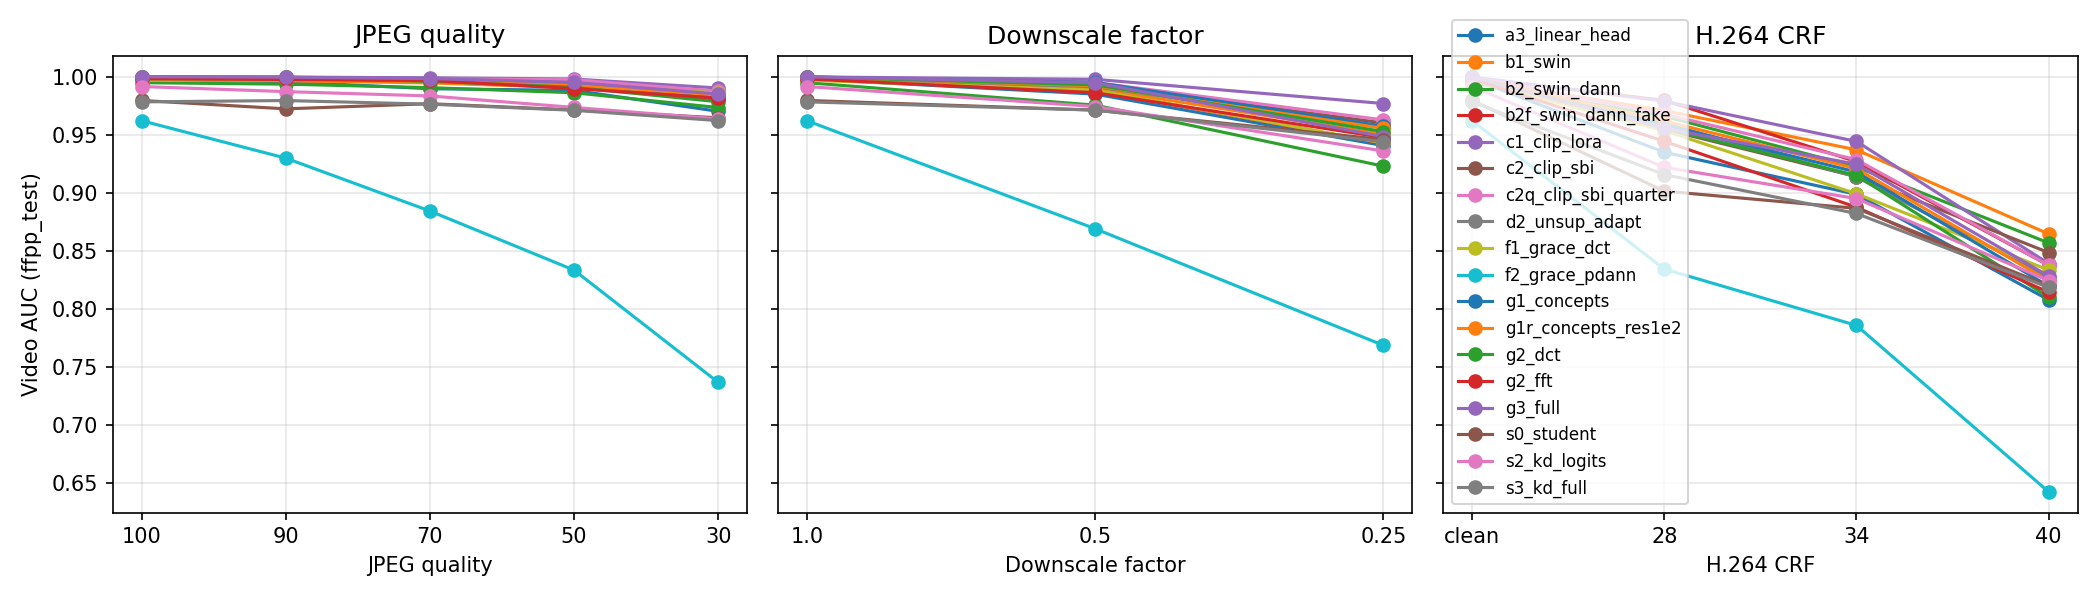
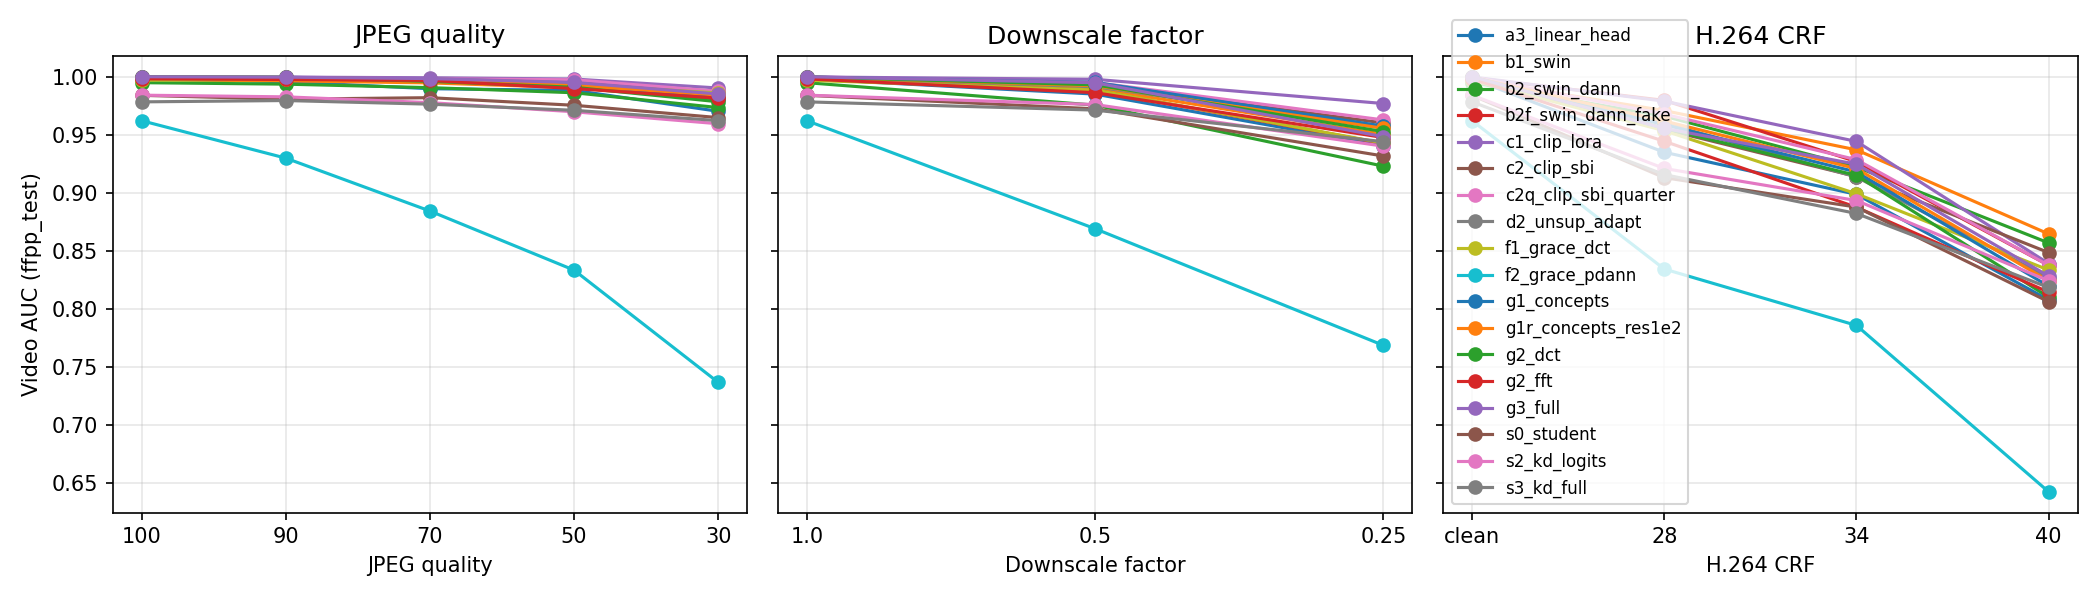
Final eval v3 (810 rows), tables/summary v3 with seed means; summary seed note; STATUS

diff --git a/scripts/make_summary.py b/scripts/make_summary.py
@@ -44,7 +44,7 @@ def main() -> None:
              "- Metric: video AUC (mean fake probability over a video's crops); thresholds from FF++ validation only.",
              "- Models: Swin-B baseline (B1, B2 + DANN), CLIP ViT-L/14 + LoRA (C1), + self-blended images (C2), + concept bottleneck (G1), "
              "+ frequency branch with gated fusion (G2 DCT / G2-fft), + DANN (G3); final teacher chosen on FF++ val between F1 (G2-DCT + residual 1e-2 + harder val selection) and F2 (F1 + DANN on patch features); EfficientNet-B0 students S0/S2/S3 distilled from the final teacher.",
-             "- Hardware: one RTX 4500 Ada (24 GB); one seed per model except the final teacher and S3 (seeds 42 and 1, seed 2 where time allowed).", "",
+             "- Hardware: one RTX 4500 Ada (24 GB); seeds 42, 1 and 2 for the final teacher (F1), B1 and all three students (S0, S2, S3); X1 and D2 two seeds; other models one seed (42). Numbers are seed means where more than one seed exists.", "",
              "## Findings", ""]
     for a, b, what in [("b1_swin", "c1_clip_lora", "Replacing Swin-B with CLIP + LoRA"),
                        ("c1_clip_lora", "c2_clip_sbi", "Adding self-blended images"),

diff --git a/results/tables.md b/results/tables.md
@@ -18,11 +18,11 @@ Generated by `scripts/make_tables.py` from the run folders and `results/*.csv`. 
 | A3 G3 w/o concepts | 0.998 | 0.962 | 0.893 | 0.928 |
 | F1 G2-DCT + residual 1e-2 + hard-val selection | 0.997 ± 0.003 | 0.951 ± 0.003 | 0.901 ± 0.014 | 0.926 ± 0.008 |
 | F2 F1 + DANN/MMD on patch features | 0.962 | 0.813 | 0.715 | 0.764 |
-| S0 student, no teacher | 0.979 | 0.836 | 0.778 | 0.807 |
-| S2 student, logit KD | 0.991 | 0.869 | 0.810 | 0.839 |
+| S0 student, no teacher | 0.984 ± 0.004 | 0.867 ± 0.022 | 0.817 ± 0.028 | 0.842 ± 0.025 |
+| S2 student, logit KD | 0.984 ± 0.006 | 0.859 ± 0.008 | 0.803 ± 0.005 | 0.831 ± 0.006 |
 | S3 student, full KD | 0.978 ± 0.005 | 0.844 ± 0.011 | 0.808 ± 0.021 | 0.826 ± 0.010 |
 | D2 G3 + unsupervised adaptation to Celeb-DF | 0.999 | 0.949 | 0.874 | 0.911 |
-| X1 G3 trained on FF++ + DFD (DFD not a test set) | 0.997 | – | 0.950 | – |
+| X1 G3 trained on FF++ + DFD (DFD not a test set) | 0.998 ± 0.001 | – | 0.959 ± 0.009 | – |
 
 ### Frame AUC
 
@@ -40,11 +40,11 @@ Generated by `scripts/make_tables.py` from the run folders and `results/*.csv`. 
 | A3 G3 w/o concepts | 0.979 | 0.888 | 0.764 | 0.826 |
 | F1 G2-DCT + residual 1e-2 + hard-val selection | 0.982 ± 0.001 | 0.895 ± 0.004 | 0.802 ± 0.013 | 0.848 ± 0.008 |
 | F2 F1 + DANN/MMD on patch features | 0.930 | 0.743 | 0.628 | 0.686 |
-| S0 student, no teacher | 0.961 | 0.802 | 0.719 | 0.760 |
-| S2 student, logit KD | 0.964 | 0.825 | 0.738 | 0.782 |
+| S0 student, no teacher | 0.963 ± 0.002 | 0.821 ± 0.014 | 0.748 ± 0.021 | 0.785 ± 0.017 |
+| S2 student, logit KD | 0.963 ± 0.001 | 0.826 ± 0.005 | 0.738 ± 0.000 | 0.782 ± 0.002 |
 | S3 student, full KD | 0.960 ± 0.006 | 0.820 ± 0.007 | 0.748 ± 0.016 | 0.784 ± 0.006 |
 | D2 G3 + unsupervised adaptation to Celeb-DF | 0.985 | 0.895 | 0.786 | 0.840 |
-| X1 G3 trained on FF++ + DFD (DFD not a test set) | 0.985 | – | 0.868 | – |
+| X1 G3 trained on FF++ + DFD (DFD not a test set) | 0.988 ± 0.003 | – | 0.883 ± 0.015 | – |
 
 ## 2. Ablation (each row changes one thing from the row above)
 
@@ -70,8 +70,8 @@ G2-fft is compared with G1; A3 is compared with G3; F1 with G2-DCT; F2 with F1. 
 | C1 CLIP + LoRA | 0.939 | 0.820 | 0.861 | 0.609 |
 | G3 full teacher (+ DANN) | 0.935 | 0.927 | 0.912 | 0.639 |
 | F1 G2-DCT + residual 1e-2 + hard-val selection | 0.926 ± 0.008 | 0.923 ± 0.006 | 0.897 ± 0.007 | 0.643 ± 0.015 |
-| S0 student, no teacher | 0.807 | 0.808 | 0.816 | 0.598 |
-| S2 student, logit KD | 0.839 | 0.845 | 0.843 | 0.622 |
+| S0 student, no teacher | 0.842 ± 0.025 | 0.827 ± 0.013 | 0.811 ± 0.011 | 0.599 ± 0.010 |
+| S2 student, logit KD | 0.831 ± 0.006 | 0.839 ± 0.005 | 0.836 ± 0.005 | 0.614 ± 0.006 |
 | S3 student, full KD | 0.826 ± 0.010 | 0.833 ± 0.010 | 0.828 ± 0.007 | 0.621 ± 0.011 |
 
 Full grid: `results/robustness.csv`; curves: `results/fig_robustness_<split>.png`.
@@ -82,8 +82,8 @@ Full grid: `results/robustness.csv`; curves: `results/fig_robustness_<split>.png
 | --- | --- | --- | --- | --- | --- | --- | --- | --- |
 | B1 Swin-B | 86.75 | 15.43 | 640.3 | nan | 0.901 ± 0.003 | 0.862 ± 0.021 | – | – |
 | F1 G2-DCT + residual 1e-2 + hard-val selection | 306.94 | 81.46 | 286.2 | nan | 0.926 ± 0.008 | 0.949 ± 0.008 | – | – |
-| S0 student, no teacher | 4.71 | 0.39 | 3834.6 | nan | 0.807 | 0.822 | 0.683 ± 0.038 | 0.149 ± 0.008 |
-| S2 student, logit KD | – | – | – | – | 0.839 | 0.855 | – | – |
+| S0 student, no teacher | 4.71 | 0.39 | 3834.6 | nan | 0.842 ± 0.025 | 0.839 ± 0.012 | 0.683 ± 0.038 | 0.149 ± 0.008 |
+| S2 student, logit KD | – | – | – | – | 0.831 ± 0.006 | 0.845 ± 0.008 | – | – |
 | S3 student, full KD | 4.71 | 0.39 | 3939.3 | 4.2 | 0.826 ± 0.010 | 0.843 ± 0.008 | 0.767 ± 0.022 | 0.121 ± 0.007 |
 
 ## 5. Explanations

diff --git a/results/summary.md b/results/summary.md
@@ -6,7 +6,7 @@
 - Unseen tests: DeepFakeDetection (DFD) and Celeb-DF v2; FF++ test for in-domain. Celeb-DF test mode: interim.
 - Metric: video AUC (mean fake probability over a video's crops); thresholds from FF++ validation only.
 - Models: Swin-B baseline (B1, B2 + DANN), CLIP ViT-L/14 + LoRA (C1), + self-blended images (C2), + concept bottleneck (G1), + frequency branch with gated fusion (G2 DCT / G2-fft), + DANN (G3); final teacher chosen on FF++ val between F1 (G2-DCT + residual 1e-2 + harder val selection) and F2 (F1 + DANN on patch features); EfficientNet-B0 students S0/S2/S3 distilled from the final teacher.
-- Hardware: one RTX 4500 Ada (24 GB); one seed per model except the final teacher and S3 (seeds 42 and 1, seed 2 where time allowed).
+- Hardware: one RTX 4500 Ada (24 GB); seeds 42, 1 and 2 for the final teacher (F1), B1 and all three students (S0, S2, S3); X1 and D2 two seeds; other models one seed (42). Numbers are seed means where more than one seed exists.
 
 ## Findings
 
@@ -21,8 +21,8 @@
 - Residual penalty 1e-2 + harder val selection on G2-DCT (F1) lowers cross-dataset video AUC (mean of DFD and Celeb-DF): 0.948 → 0.926 (G2 + DCT fusion → F1 G2-DCT + residual 1e-2 + hard-val selection).
 - DANN/MMD on patch features (F2 vs F1) lowers cross-dataset video AUC (mean of DFD and Celeb-DF): 0.926 → 0.764 (F1 G2-DCT + residual 1e-2 + hard-val selection → F2 F1 + DANN/MMD on patch features).
 - Domain terms on patch features instead of z (F2 vs G3) lowers cross-dataset video AUC (mean of DFD and Celeb-DF): 0.935 → 0.764 (G3 full teacher (+ DANN) → F2 F1 + DANN/MMD on patch features).
-- Full distillation over a teacher-free student raises cross-dataset video AUC (mean of DFD and Celeb-DF): 0.807 → 0.826 (S0 student, no teacher → S3 student, full KD).
-- Under JPEG quality 30, raises cross-dataset video AUC (mean of DFD and Celeb-DF) at jpeg:30: 0.808 → 0.833 (S0 student, no teacher → S3 student, full KD).
+- Full distillation over a teacher-free student lowers cross-dataset video AUC (mean of DFD and Celeb-DF): 0.842 → 0.826 (S0 student, no teacher → S3 student, full KD).
+- Under JPEG quality 30, raises cross-dataset video AUC (mean of DFD and Celeb-DF) at jpeg:30: 0.827 → 0.833 (S0 student, no teacher → S3 student, full KD).
 - Under JPEG quality 30, raises cross-dataset video AUC (mean of DFD and Celeb-DF) at jpeg:30: 0.823 → 0.833 (B1 Swin-B → S3 student, full KD).
 - The S3 student has 4.71 M parameters and 0.39 GFLOPs vs 306.94 M and 81.46 GFLOPs for the teacher (f1_grace_dct); ONNX CPU latency 4.2 ms per face.
 - Pointing game on held-out SBI blends: F1 c1 0.52, F1 region 0.94, B1 Grad-CAM 0.15, C1 rollout 0.01, S3 c1 0.72, random 0.25.

diff --git a/STATUS.md b/STATUS.md
@@ -3,7 +3,7 @@
 ## Currently running
 
 - Queue runner: `scripts/start_queue.ps1` (detached; restart with `powershell -ExecutionPolicy Bypass -File scripts/start_queue.ps1`). State: `runs/_queue/state.json`, logs: `runs/_queue/<job>.log`, heartbeat: `runs/_queue/heartbeat.txt`.
-- GPU job: `final_eval_all_v3` (started 19:40), then `make_tables_v3` (see queue.yaml). All runbook tasks are done; these are extra seeds and refreshes.
+- GPU job: `b1_swin_s2` (started 20:31), then `x1_ffpp_dfd_s2`, `d2_unsup_adapt_s1`, `final_eval_all_v4`, `make_tables_v4` (see queue.yaml). All runbook tasks are done; these are extra seeds and refreshes.
 - Watch live: `Get-Content runs\_queue\<job>.log -Wait -Tail 20` (queue: `runs\_queue\runner.log`).
 - B1 epoch time with the GPU to itself: ~4 min (198 img/s).
 
@@ -178,3 +178,4 @@ See `splits/counts.md` for the full table.
 - 2026-11-19 16:59 S2 seed 1 done: FF++ 0.9839 / DFD 0.8486 / Celeb-DF 0.8010 (seed 42: 0.869 / 0.810). Same range as S3 and S0. Next: S2 seed 2.
 - 2026-11-19 17:44 S2 seed 2 done: FF++ 0.9765 / DFD 0.8589 / Celeb-DF 0.7987. **Students over 3 seeds (FF++ / DFD / Celeb-DF): S0 0.984 / 0.867±0.027 / 0.817±0.034; S2 0.984 / 0.859±0.010 / 0.803±0.006; S3 0.978 / 0.844±0.013 / 0.808±0.025.** All three within seed noise of each other on clean AUC; KD lowers seed variance (S2/S3 std about half of S0's) and transfers concept use and explanation agreement, not accuracy. Next: X1 seed 1.
 - 2026-11-19 19:40 X1 seed 1 done: FF++ 0.9996, **Celeb-DF 0.9676**. X1 over 2 seeds: Celeb-DF 0.959 (0.950, 0.968) vs F1 (FF++ only) 0.901±0.017: the gain from adding DFD training data replicates. Next: final_eval_all_v3, make_tables_v3.
+- 2026-11-19 20:31 final_eval_all_v3 (810 rows) + make_tables_v3 done. Summary now uses seed means: full KD vs S0 on clean cross-dataset 0.826 vs 0.842 (lower), at jpeg:30 0.833 vs 0.827 (slightly higher). Summary seed note fixed in the generator. Queued night fillers: B1 s2, X1 s2, D2 s1, v4 refresh.
